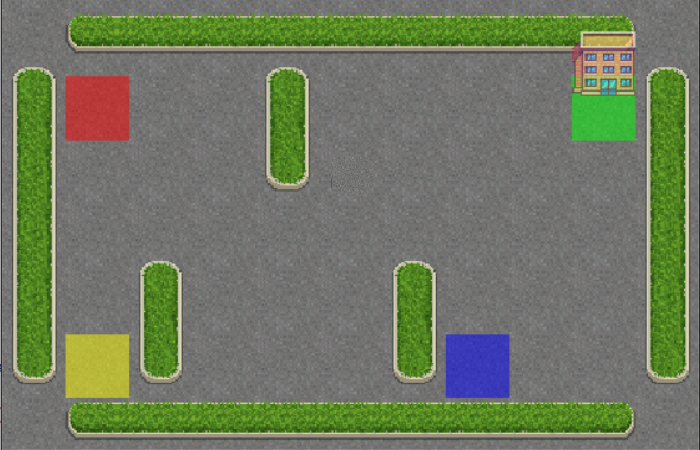
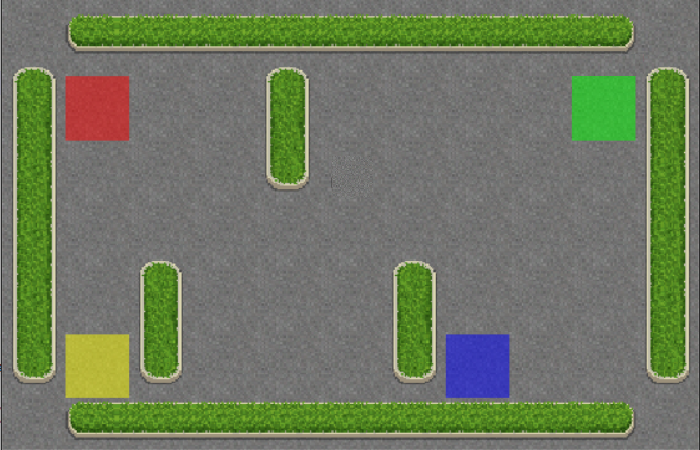
Added the winning message if the passenger is parked

Changed region(s): [[0.81, 0.0622, 0.93, 0.2178]]

diff --git a/Game/main.py b/Game/main.py
@@ -1,6 +1,8 @@
 import pygame as pg
 from random import choice
 
+from pygame import SurfaceType
+
 w, h = 700, 450
 BLACK = (0, 0, 0)
 WHITE = (255, 255, 255)
@@ -31,7 +33,7 @@ class Player:
         self.rect.y = y
         self.x_direction = 0
         self.y_direction = 0
-        self.speed = 2
+        self.speed = 5
 
     def update(self):
         self.image = image_dict["player"][self.view]
@@ -47,7 +49,9 @@ class Player:
                                              (212, 207, 174, 255),
                                              (216, 211, 175, 255),
                                              (150, 140, 119, 255),
-                                             (188, 184, 157, 255)):
+                                             (188, 184, 157, 255),
+                                             (208, 204, 173, 255),
+                                             (210, 205, 174, 255)):
                         return True
                 except IndexError:
                     return True
@@ -115,6 +119,17 @@ hotel = Hotel()
 parking = Parking(hotel)
 passenger = Passenger(hotel, player, parking)
 
+def win_message(x: float | None, y: float | None, screen: pg.SurfaceType, my_passenger: Passenger) -> None:
+    font: pg.font.FontType = pg.font.Font(None, 150)
+    win_message_img: SurfaceType = font.render("YOU WON!", False, (0, 255, 0, 255), (0, 0, 0, 50))
+    if x is None:
+        x = w / 2 - win_message_img.get_width() / 2
+    if y is None:
+        y = h / 2 - win_message_img.get_height() / 2
+    if my_passenger.is_parked:
+        screen.blit(win_message_img, (x, y))
+
+
 pg.init()
 
 sc = pg.display.set_mode((w, h))
@@ -171,6 +186,8 @@ while running:
     if player.is_crashed():
         player.rect.topleft = (300, 185)
         passenger.is_collected = False
+
+    win_message(None, None, sc, passenger)
 
     passenger.update()
 